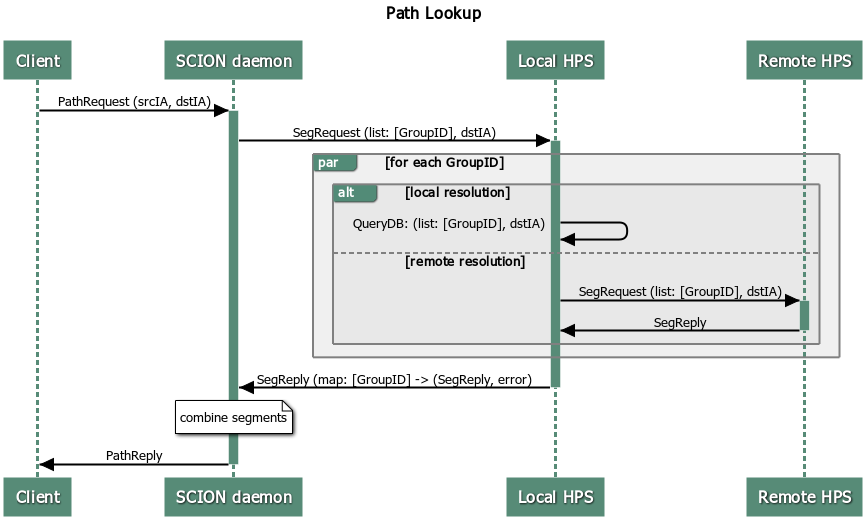
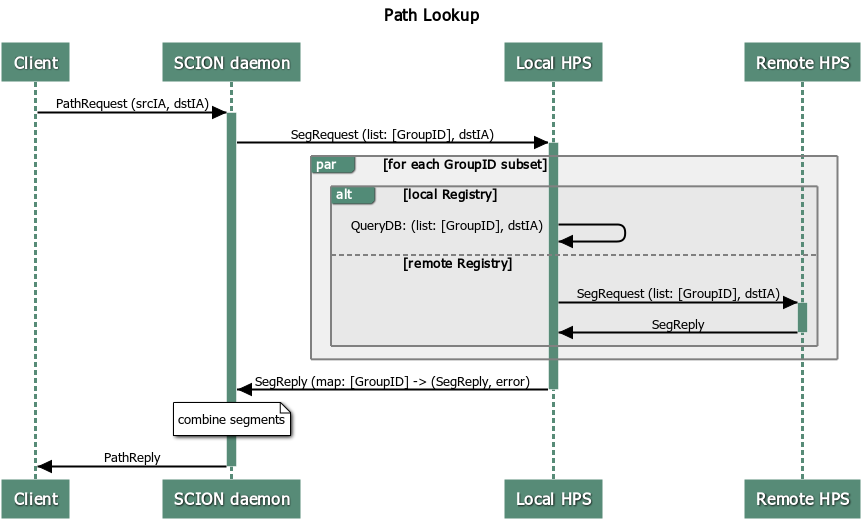
updated Path Lookup

Changed region(s): [[0.0, 0.0617, 1.0, 1.0], [0.4375, 0.0, 0.5625, 0.0617]]

diff --git a/doc/HiddenPaths.md b/doc/HiddenPaths.md
@@ -17,7 +17,7 @@ This file documents the design for the Hidden Paths infrastructure.
 
 Hidden Path communication enables entities to obtain and use specific path segments to build AS level end-to-end paths. In the common case, path segments are publicly available to any network entity. They are fetched from path servers and used to construct forwarding paths. In a Hidden Path communication setting, certain down-segments are not registered at the public path servers. Instead, they are reigistered at a dedicated Hidden path server (HPS) which enforces access control, such that only authorized entities can fetch and use these segments to create forwarding paths.
 
-![Path Lookup](fig/hidden_paths/HiddenPath.png)  
+![Hidden Path Communication](fig/hidden_paths/HiddenPath.png)  
 *Hidden Path communication scheme:*  
 *1: Group Owner creates a HPG and shares the configuration out-of-band*  
 *2: Writer ASes register down-segments at Registries of their group*  
@@ -57,9 +57,9 @@ This decision is based on a policy defined in the Beacon Server's configuration 
 
 ### Path Lookup
 
-Additionally to up-, core- and down-segments, SCION daemon is responsible for fetching hidden down-segments. SCION daemon uses the HPG configuration to detect whether it has to do a hidden path lookup. For a given request, it checks all HPGs and extracts the HPG `GroupID` of all those groups where the destination is a writer (or owner) of that group. With these `GroupID`s and the given destination, SCION daemon then requests hidden down-segments from its local HPS. The local HPS resolves the request by applying one of two cases for each provided `GroupID`:
-1. The local HPS is a registry of the given `GroupID`, and thus resolves the request by querying its database
-2. The local HPS is *not* a registry of the given `GroupID`. The request is resolved by querying one of the registries of the given group.
+Additionally to up-, core- and down-segments, SCION daemon is responsible for fetching hidden down-segments. SCION daemon uses the HPG configuration to detect whether it has to do a hidden path lookup. For a given request, it checks all HPGs and extracts the HPG `GroupID` of all those groups where the destination is a Writer (or Owner) of that group. With these `GroupID`s and the given destination, SCION daemon then requests hidden down-segments from its local HPS. The local HPS selects a Registry for each `GroupID`, paritioning the `GroupID`s into disjoint subsets based on shared Registries. HPS then resolves the request by applying one of two cases for each subset:
+1. The local HPS is a registry of the groups in the subset, and thus resolves the request by querying its database
+2. The local HPS is *not* a registry of the groups in the subset. The request is resolved by querying the shared registry of the given groups.
 
 The HPS then replies to SCION daemon with a map of `GroupID` -> (`SegReply`, `error`).
 
